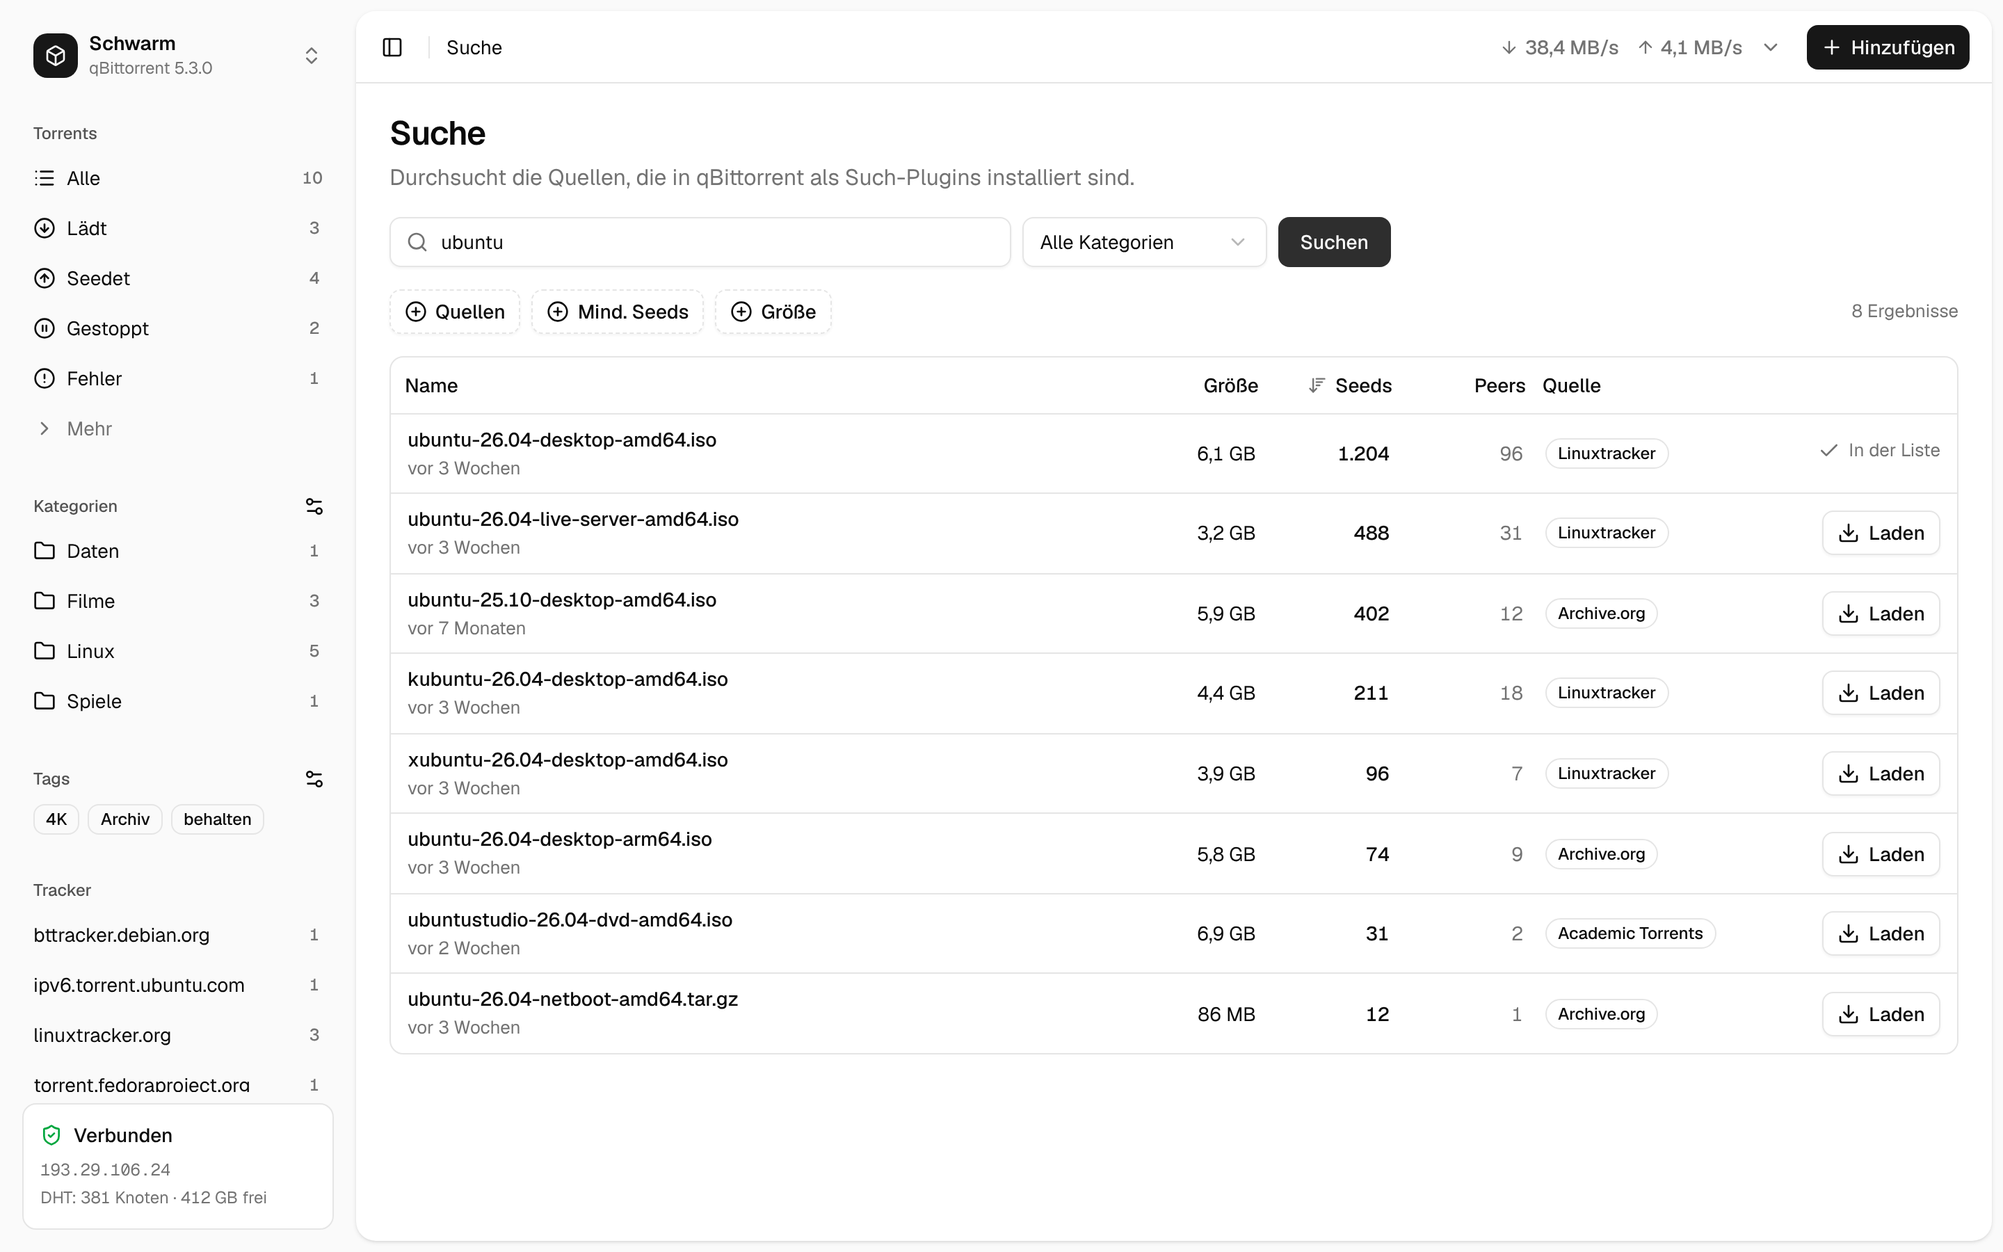
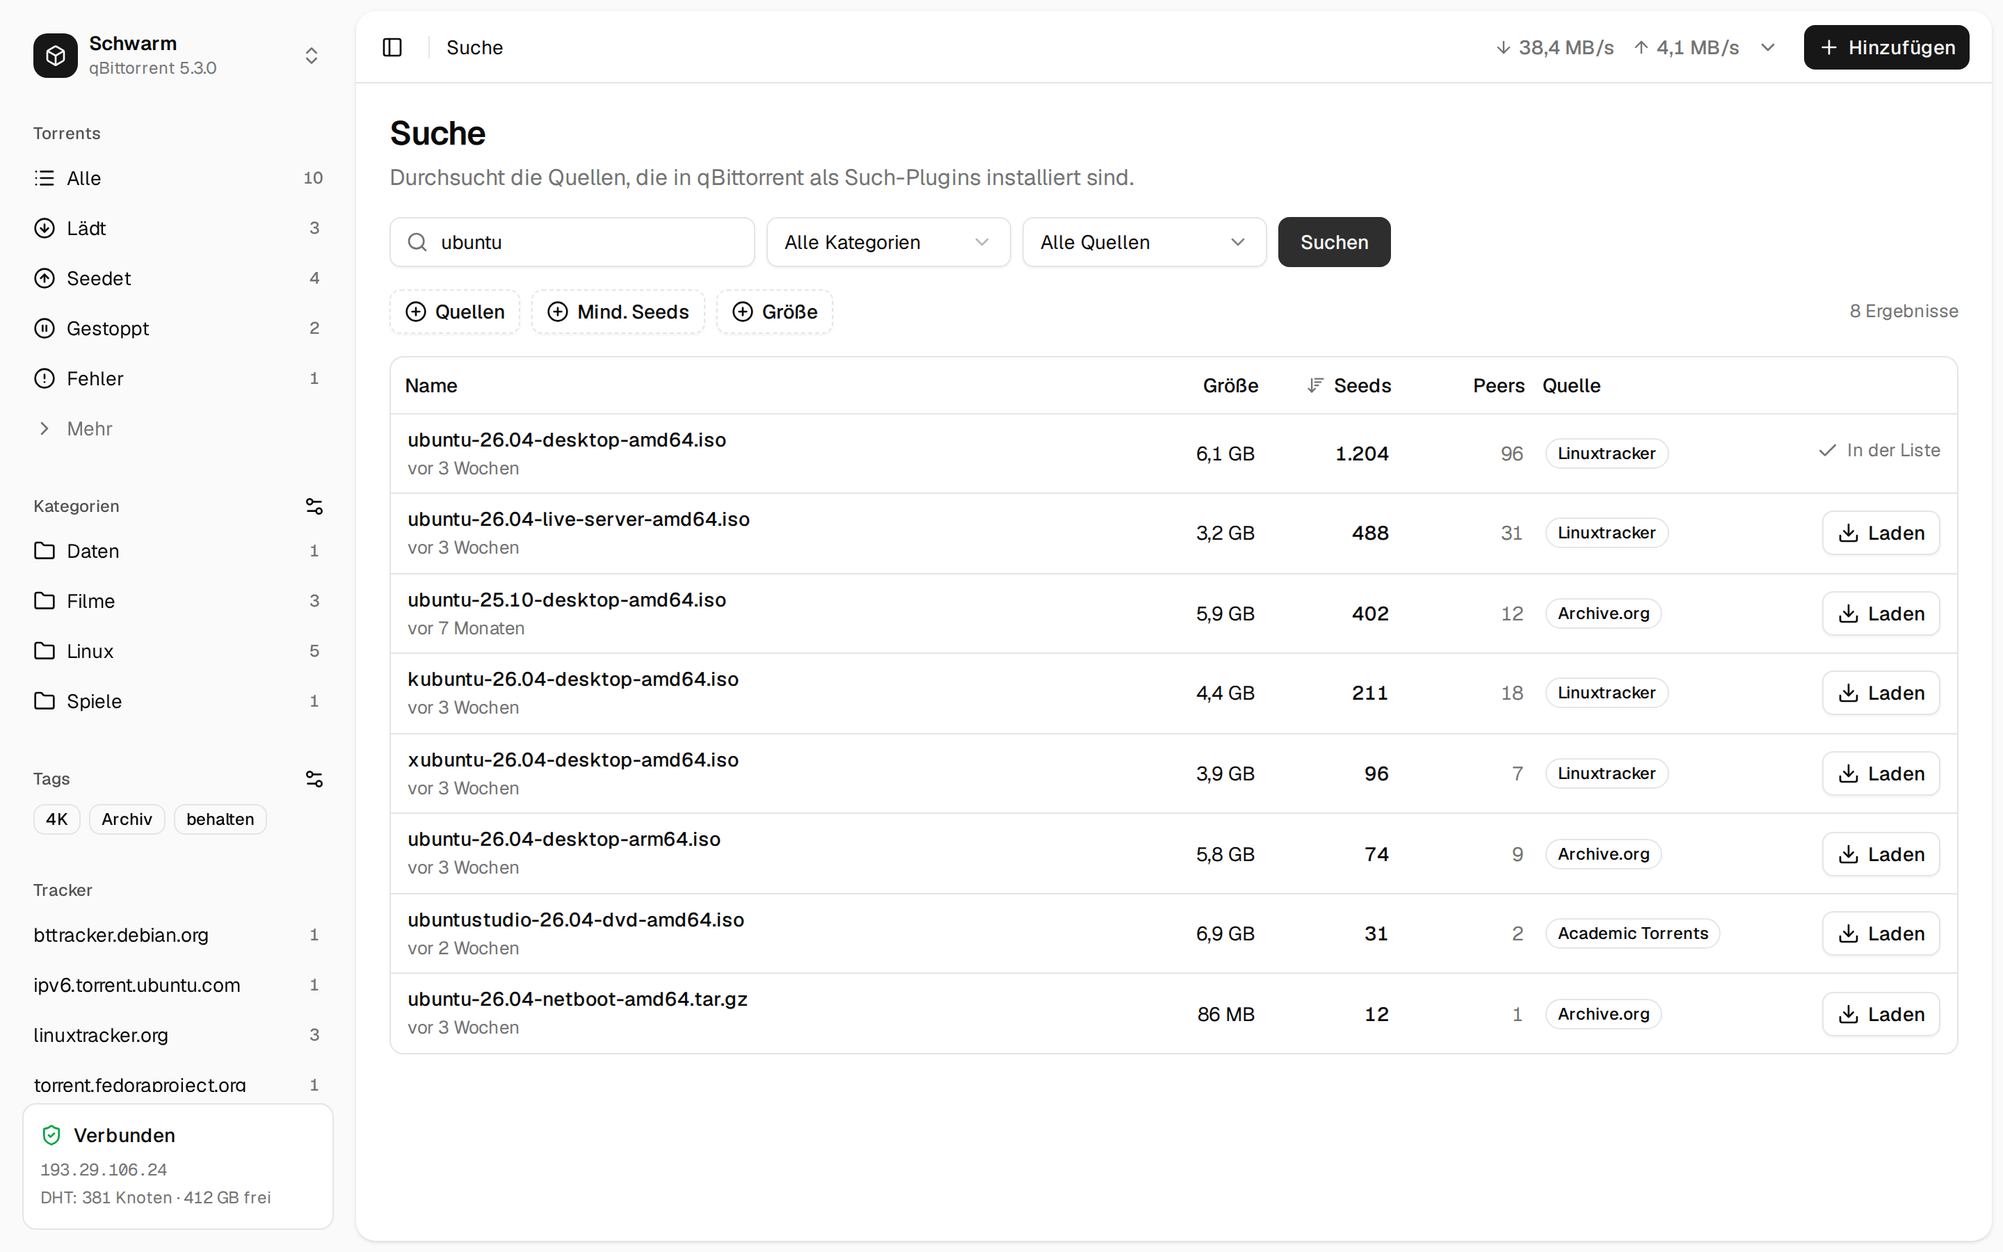
Search: choose the sources to search
A "Quellen" picker next to the category: all enabled plugins (default) or a
choice of them. The choice goes to search/start, is kept in the browser,
drops plugins that were disabled since, and restricts the categories to
what the chosen plugins support (an unknown category falls back to all).
Closing the picker on a changed choice runs the shown search again.

On a phone the two pickers share a row and the button takes its own.

diff --git a/src/components/search/search-page.tsx b/src/components/search/search-page.tsx
@@ -5,6 +5,7 @@ import {
   ArrowDownWideNarrowIcon,
   ArrowUpNarrowWideIcon,
   CheckIcon,
+  ChevronDownIcon,
   CircleAlertIcon,
   CirclePlusIcon,
   DownloadIcon,
@@ -19,6 +20,7 @@ import { authState, useMaindata } from "@/api/queries";
 import type { SearchPlugin, SearchResult } from "@/api/schemas";
 import { Badge } from "@/components/ui/badge";
 import { Button } from "@/components/ui/button";
+import { Command, CommandGroup, CommandItem, CommandList, CommandSeparator } from "@/components/ui/command";
 import { Input } from "@/components/ui/input";
 import { Popover, PopoverContent, PopoverTrigger } from "@/components/ui/popover";
 import { Select, SelectContent, SelectItem, SelectTrigger, SelectValue } from "@/components/ui/select";
@@ -26,7 +28,8 @@ import { Separator } from "@/components/ui/separator";
 import { useIsMobile } from "@/hooks/use-mobile";
 import { openAddDialog } from "@/lib/add-dialog";
 import { formatBytes, formatNumber, formatRelative } from "@/lib/format";
-import { createMemoryStore } from "@/lib/store";
+import { chosenSources, sourceCategories, toggleSource } from "@/lib/search-sources";
+import { createMemoryStore, createStore } from "@/lib/store";
 import { cn } from "@/lib/utils";
 import { m } from "@/paraglide/messages.js";
 import { PageHeader } from "../page-header";
@@ -37,11 +40,12 @@ interface SearchState {
   id?: number;
   pattern: string;
   category: string;
-  /** Plugin names to search with; empty means the enabled ones. */
-  plugins: string[];
   error?: "python" | "failed";
 }
-const searchStore = createMemoryStore<SearchState>({ pattern: "", category: "all", plugins: [] });
+const searchStore = createMemoryStore<SearchState>({ pattern: "", category: "all" });
+
+/** The plugins to search with, kept in the browser; empty means every enabled one. */
+const sourcesStore = createStore<{ plugins: string[] }>("search-sources", { plugins: [] });
 
 interface Accumulated {
   status: string;
@@ -148,6 +152,93 @@ function NumberFilter({
 }
 
 /**
+ * Which plugins to search with: every enabled one, or a choice of them. The choice is
+ * kept in the browser; when the popover closes on a changed choice, the shown search runs
+ * again with it (as a changed category does).
+ */
+function SourcePicker({
+  enabled,
+  chosen,
+  onClose,
+}: {
+  enabled: SearchPlugin[];
+  chosen: string[];
+  onClose: (chosen: string[]) => void;
+}) {
+  const [opened, setOpened] = useState<string[] | null>(null);
+  const label =
+    chosen.length === 0
+      ? m.search_all_sources()
+      : chosen.length === 1
+        ? (enabled.find((p) => p.name === chosen[0])?.fullName ?? chosen[0])
+        : m.search_sources_n({ n: chosen.length });
+  const set = (plugins: string[]) => sourcesStore.set({ plugins });
+  return (
+    <Popover
+      open={opened !== null}
+      onOpenChange={(open) => {
+        if (open) setOpened(chosen);
+        else {
+          if (opened && opened.join("|") !== chosen.join("|")) onClose(chosen);
+          setOpened(null);
+        }
+      }}
+    >
+      <PopoverTrigger asChild>
+        <Button
+          type="button"
+          variant="outline"
+          className="min-w-0 flex-1 justify-between px-3 font-normal md:w-44 md:flex-none"
+          aria-label={m.search_sources_pick()}
+          disabled={enabled.length === 0}
+        >
+          <span className="truncate">{label}</span>
+          <ChevronDownIcon className="size-4 opacity-50" aria-hidden />
+        </Button>
+      </PopoverTrigger>
+      <PopoverContent className="w-60 p-0" align="start">
+        <Command>
+          <CommandList>
+            <CommandGroup>
+              <CommandItem value="__all" onSelect={() => set([])}>
+                <CheckIcon className={cn("size-4", chosen.length > 0 && "invisible")} aria-hidden />
+                {m.search_all_sources()}
+              </CommandItem>
+            </CommandGroup>
+            <CommandSeparator />
+            <CommandGroup>
+              {enabled.map((p) => {
+                const isChosen = chosen.includes(p.name);
+                return (
+                  <CommandItem
+                    key={p.name}
+                    value={p.name}
+                    onSelect={() => set(toggleSource(chosen, p.name, enabled.length))}
+                    aria-checked={isChosen}
+                  >
+                    <div
+                      className={cn(
+                        "flex size-4 items-center justify-center rounded-[4px] border",
+                        isChosen
+                          ? "border-primary bg-primary text-primary-foreground"
+                          : "border-input [&_svg]:invisible",
+                      )}
+                    >
+                      <CheckIcon className="size-3.5 text-primary-foreground" />
+                    </div>
+                    <span className="truncate">{p.fullName}</span>
+                  </CommandItem>
+                );
+              })}
+            </CommandGroup>
+          </CommandList>
+        </Command>
+      </PopoverContent>
+    </Popover>
+  );
+}
+
+/**
  * The search page (docs/mockup/Suche.dc.html): search/start with the chosen plugins and
  * category, results polled with search/results, filtered by source, seeds and size, and
  * "Laden" opens the add dialog with the link and the plugin as downloader (as search.js).
@@ -155,6 +246,7 @@ function NumberFilter({
 export function SearchPage() {
   const state = searchStore.use();
   const plugins = useSearchPlugins();
+  const sources = sourcesStore.use();
   const results = useSearchResults(state.id);
   const { data: main } = useMaindata();
   const isMobile = useIsMobile();
@@ -169,15 +261,16 @@ export function SearchPage() {
   const allPlugins: SearchPlugin[] = plugins.data ?? [];
   const enabled = allPlugins.filter((p) => p.enabled);
   const running = results.data?.status === "Running" || (state.id !== undefined && results.isPending);
-  const categories = useMemo(() => {
-    const map = new Map<string, string>();
-    for (const p of enabled) for (const c of p.supportedCategories) if (c.id !== "all") map.set(c.id, c.name);
-    return [...map.entries()].sort((a, b) => a[1].localeCompare(b[1]));
-  }, [enabled]);
+  const chosen = chosenSources(sources.plugins, enabled);
+  const categories = sourceCategories(enabled, chosen);
 
-  const start = async (event?: FormEvent, override: Partial<SearchState> = {}) => {
+  const start = async (event?: FormEvent, override: { category?: string; plugins?: string[] } = {}) => {
     event?.preventDefault();
-    const next = { ...state, ...override, pattern: (override.pattern ?? pattern).trim() };
+    const plugins = override.plugins ?? chosen;
+    let category = override.category ?? state.category;
+    // a category the chosen sources do not know would find nothing
+    if (category !== "all" && !sourceCategories(enabled, plugins).some(([id]) => id === category)) category = "all";
+    const next = { ...state, category, pattern: pattern.trim() };
     if (!next.pattern) return;
     setBusy(true);
     try {
@@ -185,7 +278,7 @@ export function SearchPage() {
         await api.searchDelete(state.id).catch(() => undefined);
         queryClient.removeQueries({ queryKey: ["search", state.id] });
       }
-      const id = await api.searchStart(next.pattern, next.category, next.plugins.length ? next.plugins : "enabled");
+      const id = await api.searchStart(next.pattern, next.category, plugins.length ? plugins : "enabled");
       searchStore.set({ ...next, id, error: undefined });
     } catch (error) {
       if (error instanceof ApiError && error.status === 403) authState.set(true);
@@ -321,7 +414,7 @@ export function SearchPage() {
           <>
             <search>
               <form onSubmit={start} className="flex max-w-[720px] flex-wrap gap-2">
-                <div className="relative min-w-[220px] flex-1">
+                <div className="relative min-w-[220px] flex-1 basis-full md:basis-0">
                   <SearchIcon
                     className="pointer-events-none absolute top-1/2 left-3 size-4 -translate-y-1/2 text-muted-foreground"
                     aria-hidden
@@ -342,7 +435,7 @@ export function SearchPage() {
                     if (state.pattern) void start(undefined, { category });
                   }}
                 >
-                  <SelectTrigger className="w-44" aria-label={m.category()}>
+                  <SelectTrigger className="min-w-0 flex-1 md:w-44 md:flex-none" aria-label={m.category()}>
                     <SelectValue />
                   </SelectTrigger>
                   <SelectContent>
@@ -354,12 +447,19 @@ export function SearchPage() {
                     ))}
                   </SelectContent>
                 </Select>
+                <SourcePicker
+                  enabled={enabled}
+                  chosen={chosen}
+                  onClose={(next) => {
+                    if (state.id !== undefined && pattern.trim()) void start(undefined, { plugins: next });
+                  }}
+                />
                 {running ? (
-                  <Button type="button" variant="outline" onClick={stop}>
+                  <Button type="button" variant="outline" onClick={stop} className="w-full md:w-auto">
                     <SquareIcon /> {m.search_stop()}
                   </Button>
                 ) : (
-                  <Button type="submit" disabled={busy || !pattern.trim()}>
+                  <Button type="submit" disabled={busy || !pattern.trim()} className="w-full md:w-auto">
                     {m.search_submit()}
                   </Button>
                 )}
@@ -483,7 +583,9 @@ export function SearchPage() {
 
             {state.id === undefined && !state.error && (
               <p className="text-muted-foreground text-sm">
-                {m.search_sources_hint({ n: enabled.length })}{" "}
+                {chosen.length
+                  ? m.search_sources_hint_chosen({ n: chosen.length, total: enabled.length })
+                  : m.search_sources_hint({ n: enabled.length })}{" "}
                 <Link
                   to="/settings"
                   search={{ section: "search" }}

diff --git a/e2e/search.spec.ts b/e2e/search.spec.ts
@@ -20,7 +20,7 @@ test("searches, filters and sends a result to the add dialog", async ({ page }) 
   await expect(rows).toHaveCount(4);
   await expect(status).toContainText("4 angezeigt");
 
-  await page.getByRole("button", { name: "Quellen" }).click();
+  await page.getByRole("button", { name: "Quellen", exact: true }).click();
   await page.getByRole("option", { name: /Archive\.org/ }).click();
   await page.keyboard.press("Escape");
   await expect(rows).toHaveCount(1);
@@ -35,6 +35,43 @@ test("searches, filters and sends a result to the add dialog", async ({ page }) 
   await dialog.getByRole("button", { name: "Hinzufügen" }).click();
   await expect(dialog).toBeHidden();
   await expect(rows.first()).toContainText("In der Liste");
+});
+
+test("searches only the chosen sources, and remembers them", async ({ page }) => {
+  await page.goto("./#/search");
+  await page.getByLabel("Suchbegriff").fill("ubuntu");
+  const category = page.getByRole("combobox", { name: "Kategorie" });
+  await category.click();
+  await page.getByRole("option", { name: "Movies" }).click();
+  await page.getByRole("button", { name: "Suchen" }).click();
+  await expect(page.getByTestId("search-status")).toHaveText("0 Ergebnisse");
+
+  const picker = page.getByRole("button", { name: "Quellen für die Suche" });
+  await expect(picker).toHaveText("Alle Quellen");
+  await picker.click();
+  await page.getByRole("option", { name: "Linuxtracker" }).click();
+  await expect(picker).toHaveText("Linuxtracker");
+  // the search runs again once the list closes; Linuxtracker has no movies, so all categories
+  await page.keyboard.press("Escape");
+  await expect(category).toHaveText("Alle Kategorien");
+  const engines = page.getByTestId("search-results").locator("tbody tr td:nth-child(5)");
+  await expect(engines.first()).toBeVisible();
+  for (const engine of await engines.allTextContents()) expect(engine).toBe("Linuxtracker");
+
+  // only the categories Linuxtracker knows
+  await category.click();
+  await expect(page.getByRole("option", { name: "Software" })).toBeVisible();
+  await expect(page.getByRole("option", { name: "Movies" })).toHaveCount(0);
+  await page.keyboard.press("Escape");
+
+  await page.reload();
+  await expect(page.getByRole("button", { name: "Quellen für die Suche" })).toHaveText("Linuxtracker");
+  await expect(page.getByText("Sucht in 1 von 3 eingeschalteten Quellen.")).toBeVisible();
+
+  await page.getByRole("button", { name: "Quellen für die Suche" }).click();
+  await page.getByRole("option", { name: "Alle Quellen" }).click();
+  await page.keyboard.press("Escape");
+  await expect(page.getByText("Sucht mit 3 eingeschalteten Quellen.")).toBeVisible();
 });
 
 test("keeps the search when coming back, and stops a running search", async ({ page }) => {

diff --git a/src/lib/search-sources.test.ts b/src/lib/search-sources.test.ts
@@ -1,0 +1,42 @@
+import { describe, expect, it } from "vitest";
+import type { SearchPlugin } from "@/api/schemas";
+import { chosenSources, sourceCategories, toggleSource } from "./search-sources";
+
+const plugin = (name: string, categories: [string, string][]): SearchPlugin => ({
+  name,
+  fullName: name.toUpperCase(),
+  version: "1.0",
+  url: `https://${name}.example`,
+  enabled: true,
+  supportedCategories: [{ id: "all", name: "All" }, ...categories.map(([id, n]) => ({ id, name: n }))],
+});
+
+const a = plugin("a", [["movies", "Movies"]]);
+const b = plugin("b", [
+  ["software", "Software"],
+  ["books", "Books"],
+]);
+
+describe("search sources", () => {
+  it("keeps only plugins that are still enabled", () => {
+    expect(chosenSources(["b", "gone"], [a, b])).toEqual(["b"]);
+    expect(chosenSources(["gone"], [a, b])).toEqual([]);
+    expect(chosenSources([], [a, b])).toEqual([]);
+  });
+
+  it("lists the categories of the chosen plugins, or of all", () => {
+    expect(sourceCategories([a, b], [])).toEqual([
+      ["books", "Books"],
+      ["movies", "Movies"],
+      ["software", "Software"],
+    ]);
+    expect(sourceCategories([a, b], ["a"])).toEqual([["movies", "Movies"]]);
+  });
+
+  it("toggles a plugin, and choosing every plugin means all", () => {
+    expect(toggleSource([], "a", 3)).toEqual(["a"]);
+    expect(toggleSource(["a"], "b", 3)).toEqual(["a", "b"]);
+    expect(toggleSource(["a", "b"], "a", 3)).toEqual(["b"]);
+    expect(toggleSource(["a"], "b", 2)).toEqual([]);
+  });
+});

diff --git a/src/lib/search-sources.ts b/src/lib/search-sources.ts
@@ -1,0 +1,28 @@
+import type { SearchPlugin } from "@/api/schemas";
+
+/**
+ * The plugins a search runs with. The choice is kept in the browser; a plugin that was
+ * disabled or uninstalled since then drops out, and an empty choice means every enabled
+ * plugin ("enabled" for search/start, searchcontroller.cpp startAction).
+ */
+export function chosenSources(selected: readonly string[], enabled: readonly SearchPlugin[]): string[] {
+  const names = new Set(enabled.map((p) => p.name));
+  return selected.filter((name) => names.has(name));
+}
+
+/**
+ * The categories the chosen plugins support (all enabled ones when none are chosen),
+ * without "all", sorted by name. A category counts when one of them supports it.
+ */
+export function sourceCategories(enabled: readonly SearchPlugin[], chosen: readonly string[]): [string, string][] {
+  const plugins = chosen.length ? enabled.filter((p) => chosen.includes(p.name)) : enabled;
+  const map = new Map<string, string>();
+  for (const p of plugins) for (const c of p.supportedCategories) if (c.id !== "all") map.set(c.id, c.name);
+  return [...map.entries()].sort((a, b) => a[1].localeCompare(b[1]));
+}
+
+/** Toggles one plugin in the choice; choosing every enabled plugin is the same as none. */
+export function toggleSource(chosen: readonly string[], name: string, enabledCount: number): string[] {
+  const next = chosen.includes(name) ? chosen.filter((n) => n !== name) : [...chosen, name];
+  return next.length >= enabledCount ? [] : next;
+}

diff --git a/docs/features.md b/docs/features.md
@@ -56,7 +56,7 @@ Done: milestones 1–6. "7" marks what a comparison of the 5.3 API with the stoc
 
 | qBittorrent | Place in Schwarm | Milestone |
 |---|---|---|
-| Search: start/stop, filter results (size, seeds), download, open description | Page "Suche": category, sources, min. seeds, max. size, sorting; "Laden" opens the add dialog with the plugin as downloader | 3 |
+| Search: start/stop, filter results (size, seeds), download, open description | Page "Suche": category, sources to search (all enabled plugins or a choice, kept in the browser), filter by source, min. seeds, max. size, sorting; "Laden" opens the add dialog with the plugin as downloader | 3 |
 | Search plugins: install (URL or path), update, enable, uninstall | Settings → "Suche & RSS" | 3 |
 | RSS: feeds and folders, articles, mark read, refresh, edit feed URL | Page "RSS" → "Feeds": three columns (phone: list), "Laden" opens the add dialog, "Regel daraus machen"; unread count in the navigation | 4 |
 | RSS auto-downloader: rules, episode filter, smart filter, preview of matching articles, clone, import/export | Page "RSS" → "Auto-Downloader": live preview with reasons (matching ported from qBittorrent), qBittorrent's own count from `rss/matchingArticles` after saving | 4 |

diff --git a/README.de.md b/README.de.md
@@ -132,6 +132,8 @@ qBittorrent und merkt sich nur seine Anzeige-Einstellungen (Design, Sprache, Spa
 
 - **Suchen über die Such-Plugins von qBittorrent**: ein Feld, Kategorie, Ergebnisse nach Seeds
   sortiert, Filter für Quelle, Seeds und Größe, und „Laden“ öffnet den Hinzufügen-Dialog.
+- **Quellen wählen**: in allen eingeschalteten Plugins suchen oder nur in einigen; die Auswahl
+  bleibt im Browser gespeichert.
 - **Plugins** in den Einstellungen: einschalten, aktualisieren, per Adresse hinzufügen, entfernen.
 
 ### 📰 RSS

diff --git a/README.md b/README.md
@@ -128,6 +128,8 @@ only its display settings (theme, language, columns) in your browser.
 
 - **Search through qBittorrent's search plugins**: one field, category, results sorted by seeds,
   filters for source, seeds and size, and "Download" opens the add dialog.
+- **Choose the sources**: search all enabled plugins or only some of them; the choice is kept in
+  the browser.
 - **Plugins** in the settings: enable, update, add by URL, remove.
 
 ### 📰 RSS
